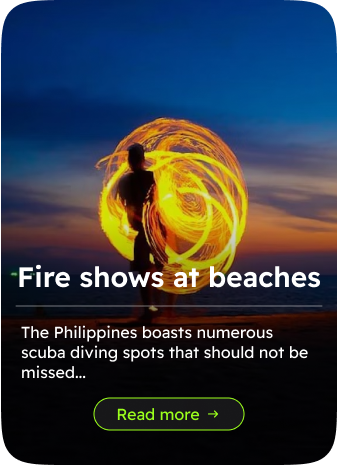
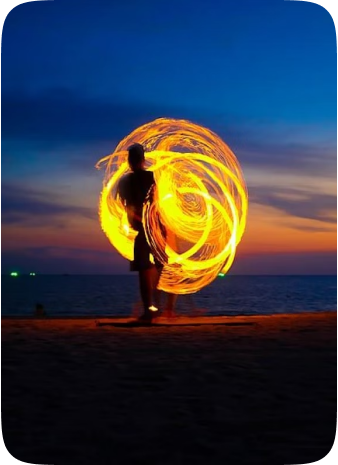
payment and bug fix, er diagram for api

diff --git a/src/app/components/pages/home/home.component.html b/src/app/components/pages/home/home.component.html
@@ -2,8 +2,8 @@
     <p-carousel [value]="bannerImage" [numVisible]="1" [numScroll]="1" [circular]="true">
         <ng-template pTemplate="item" *ngFor="let banner of bannerImage">
             <div class="relative">
-                <div class="max-h-[800px] overflow-hidden">
-                    <img src="../../../../assets/home/home_banner.jpg" alt="banner" class="w-full max-h-[650px] object-cover" />
+                <div class="max-h-screen overflow-hidden">
+                    <img src="../../../../assets/home/home_banner.jpg" alt="banner" class="w-full max-h-screen object-cover" />
                 </div>
                 <div class="absolute top-[30%] md:top-[25%] lg:top-[20%] px-4 sm:px-8 md:px-12">
                     <div class="text-sm sm:text-[20px] leading-8 font-normal tracking-[2%] text-white">
@@ -91,7 +91,7 @@
                     <div class=" overflow-hidden">
                         <img src="{{card.img}}" alt="banner" class="h-96 rounded-[30px] object-cover" />
                     </div>
-                    <!-- <div class="flex flex-col absolute bottom-[10%] px-6">
+                    <div class="flex flex-col absolute bottom-[10%] px-6">
                         <div class="  flex flex-col mb-6">
                             <div class="text-[20px] leading-8 font-semibold tracking-[2%] text-white">
                                 {{card.title}}
@@ -102,10 +102,11 @@
                             </div>
                         </div>
                         <div class="button mx-auto">
-                            <p-button label="Read More" styleClass="p-button-outlined p-button-secondary"></p-button>
+
+                            <p-button label="Read More"icon="pi pi-arrow-right" iconPos="right" styleClass="p-button-outlined p-button-secondary text-secondary"></p-button>
 
                         </div>
-                    </div> -->
+                    </div>
                 </div>
             </ng-template>
         </p-carousel>
@@ -113,7 +114,7 @@
 </div>
 <!-- container-3 -->
 <div class="w-full h-fit bg-[#F7FFED] container-3 pb-4"id="container-3">
-    <div class="header px-4 sm:px-8 md:px-12 py-8">
+    <div class="header px-4 sm:px-8 md:px-12 pt-8 pb-3">
         <div class="title text-base sm:text-lg sm:leading-8 font-normal text-black mb-2">Explore & Travel Along popular
             <br class="block sm:hidden"> destinations
         </div>
@@ -124,16 +125,16 @@
     </div>
     <!-- first details  -->
     <div class="details h-full px-4 sm:px-8 md:px-12 mb-12 ">
-        <div class="bg-white p-4 rounded-[20px] h-full flex flex-col lg:flex-row gap-8">
+        <div class="bg-[#FFFFFF] p-4 rounded-[20px] h-full flex flex-col lg:flex-row gap-8">
             <div class="left w-full lg:w-[50%]">
                 <div class="image">
                     <img src="../../../../assets/home/container3/image.png" class="rounded-[30px] w-full object-cover"
                         alt="image">
                 </div>
             </div>
-            <div class="right w-full lg:w-[55%]">
-                <div>
-                    <div class="text-[22px] leading-8 font-semibold text-[#0E3D4D] mb-3">Boracay</div>
+            <div class="right w-full lg:w-[55%] flex flex-col justify-center">
+                <div class="">
+                    <div class="text-lg sm:text-xl md:text-[28px] leading-8 font-semibold text-[#0E3D4D] mb-4">Boracay</div>
                     <div class="w-[100%] sm:w-[90%] mb-3" style="border: 1px solid #30A5BE;">
                     </div>
                     <div class="text-base font-semibold leading-5 mb-3">Here are you must-know Boracay tips for every
@@ -182,9 +183,9 @@
     <!-- second details  -->
     <div class="details h-full px-4 sm:px-8 md:px-12 mb-12 ">
         <div class="bg-white p-4 rounded-[20px] h-full flex flex-col lg:flex-row gap-8">
-            <div class="left w-full lg:w-[55%] order-2 lg:order-1">
+            <div class="left w-full lg:w-[55%] order-2 lg:order-1 flex flex-col justify-center">
                 <div>
-                    <div class="text-[22px] leading-8 font-semibold text-[#0E3D4D] mb-3">Balesin, Quezon</div>
+                    <div class="text-lg sm:text-xl md:text-[28px] leading-8 font-semibold text-[#0E3D4D] mb-4">Balesin, Quezon</div>
                     <div class="w-[100%] sm:w-[90%] mb-3" style="border: 1px solid #30A5BE;">
                     </div>
                     <div class="text-base font-semibold leading-5 mb-3">Here are your essential Balesin tips for every
@@ -245,9 +246,9 @@
                         alt="image">
                 </div>
             </div>
-            <div class="right w-full lg:w-[55%]">
+            <div class="right w-full lg:w-[55%] flex flex-col justify-center">
                 <div>
-                    <div class="text-[22px] leading-8 font-semibold text-[#0E3D4D] mb-3">Siargao, Surigao del Norte
+                    <div class="text-lg sm:text-xl md:text-[28px] leading-8 font-semibold text-[#0E3D4D] mb-4">Siargao, Surigao del Norte
                     </div>
                     <div class="w-[100%] sm:w-[90%] mb-3" style="border: 1px solid #30A5BE;">
                     </div>
@@ -297,9 +298,9 @@
     <!-- four details  -->
     <div class="details h-full px-4 sm:px-8 md:px-12 mb-12 ">
         <div class="bg-white p-4 rounded-[20px] h-full flex flex-col lg:flex-row gap-8">
-            <div class="left w-full lg:w-[55%] order-2 lg:order-1">
+            <div class="left w-full lg:w-[55%] order-2 lg:order-1 flex flex-col justify-center">
                 <div>
-                    <div class="text-[22px] leading-8 font-semibold text-[#0E3D4D] mb-3">El Nido, Palawan</div>
+                    <div class="text-lg sm:text-xl md:text-[28px] leading-8 font-semibold text-[#0E3D4D] mb-4">El Nido, Palawan</div>
                     <div class="w-[100%] sm:w-[90%] mb-3" style="border: 1px solid #30A5BE;">
                     </div>
                     <div class="text-base font-semibold leading-5 mb-3">Check out these must-have El Nido tips for every
@@ -360,9 +361,9 @@
                         alt="image">
                 </div>
             </div>
-            <div class="right w-full lg:w-[55%]">
+            <div class="right w-full lg:w-[55%] flex flex-col justify-center">
                 <div>
-                    <div class="text-[22px] leading-8 font-semibold text-[#0E3D4D] mb-3">Coron, Palawan</div>
+                    <div class="text-lg sm:text-xl md:text-[28px] leading-8 font-semibold text-[#0E3D4D] mb-4">Coron, Palawan</div>
                     <div class="w-[100%] sm:w-[90%] mb-3" style="border: 1px solid #30A5BE;">
                     </div>
                     <div class="text-base font-semibold leading-5 mb-3">Discover your essential Coron tips for every
@@ -411,9 +412,9 @@
     <!-- six details  -->
     <div class="details h-full px-4 sm:px-8 md:px-12 mb-12">
         <div class="bg-white p-4 rounded-[20px] h-full flex flex-col lg:flex-row gap-8">
-            <div class="left w-full lg:w-[55%] order-2 lg:order-1">
+            <div class="left w-full lg:w-[55%] order-2 lg:order-1 flex flex-col justify-center">
                 <div>
-                    <div class="text-[22px] leading-8 font-semibold text-[#0E3D4D] mb-3">Pamalican Island Palawan</div>
+                    <div class="text-lg sm:text-xl md:text-[28px] leading-8 font-semibold text-[#0E3D4D] mb-4">Pamalican Island Palawan</div>
                     <div class="w-[100%] sm:w-[90%] mb-3" style="border: 1px solid #30A5BE;">
                     </div>
                     <div class="text-base font-semibold leading-5 mb-3">Uncover your must-know Pamalican Island tips for

diff --git a/src/app/components/pages/home/home.component.ts b/src/app/components/pages/home/home.component.ts
@@ -21,9 +21,9 @@ export class HomeComponent implements OnInit {
     { img: '../../../../assets/home/container2/img1.png', title: 'Deep Diving', subTitle: 'The Philippines boasts numerous scuba diving spots that should not be missed...' },
     { img: '../../../../assets/home/container2/img2.png', title: 'Fire shows at beaches', subTitle: 'The Philippines boasts numerous scuba diving spots that should not be missed...' },
     { img: '../../../../assets/home/container2/img3.png', title: 'Jump off limestones', subTitle: 'Renting a kayak and paddling along the coast is one of the top things to do in Phi Phi Island tour. ..., ' },
-    { img: '../../../../assets/home/container2/img1.png', title: 'Deep Diving', subTitle: 'The Philippines boasts numerous scuba diving spots that should not be missed...' },
-    { img: '../../../../assets/home/container2/img2.png', title: 'Fire shows at beaches', subTitle: 'The Philippines boasts numerous scuba diving spots that should not be missed...' },
-    { img: '../../../../assets/home/container2/img3.png', title: 'Jump off limestones', subTitle: 'Renting a kayak and paddling along the coast is one of the top things to do in Phi Phi Island tour. ..., ' }
+    { img: '../../../../assets/home/container2/img4.png', title: 'Deep Diving', subTitle: 'The Philippines boasts numerous scuba diving spots that should not be missed...' },
+    { img: '../../../../assets/home/container2/img1.png', title: 'Fire shows at beaches', subTitle: 'The Philippines boasts numerous scuba diving spots that should not be missed...' },
+    { img: '../../../../assets/home/container2/img1.png', title: 'Jump off limestones', subTitle: 'Renting a kayak and paddling along the coast is one of the top things to do in Phi Phi Island tour. ..., ' }
   ];
 
   // tours_package: any[] = [
@@ -67,7 +67,12 @@ export class HomeComponent implements OnInit {
   ngOnInit(): void {
     this.responsiveOptions = [
       {
-        breakpoint: '1199px',
+        breakpoint: '1799px',
+        numVisible: 5,
+        numScroll: 1
+      },
+      {
+        breakpoint: '1399px',
         numVisible: 4,
         numScroll: 1
       },

diff --git a/src/styles.scss b/src/styles.scss
@@ -89,7 +89,7 @@ app-home {
         }
 
         #pr_id_2 .p-carousel-item {
-            margin-right: 30px;
+            margin-right: 20px;
         }
 
         .p-button.p-button-secondary.p-button-outlined {

diff --git a/src/app/components/pages/destinations/payment/payment.component.ts b/src/app/components/pages/destinations/payment/payment.component.ts
@@ -32,7 +32,7 @@ export class PaymentComponent {
             subTotalPrice: ''
           }
         ],
-      totalPrice: '$440',
+      totalPrice: '$830',
   }
   selectAccount: any;
   cardNumber:any;
